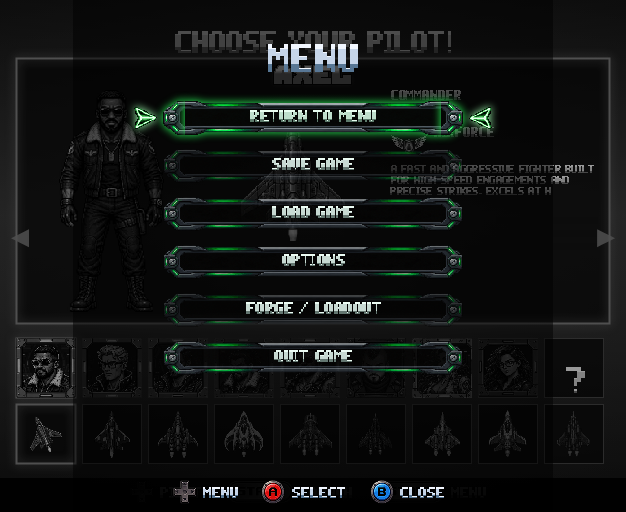
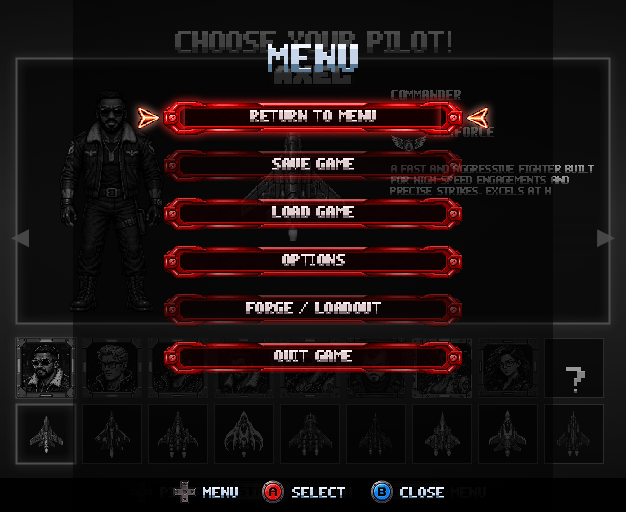
START menu: palette-swap the buttons to red
Claude-Session: https://claude.ai/code/session_01P7yYK6UMts2rdmsENLHLx8

Changed region(s): [[0.1821, 0.1875, 0.7891, 0.75], [0.0304, 0.8125, 0.1214, 0.875]]

diff --git a/assets/start_menu_1022.js b/assets/start_menu_1022.js
@@ -192,13 +192,28 @@ function sm22Field(){
   const W=cv?cv.width:VW*SS, H=cv?cv.height:VH*SS, k=Math.min(W/VW,H/VH);
   return {W,H,k,ox:(W-VW*k)/2,oy:(H-VH*k)/2};
 }
+/* Mike: "palette swap the buttons to red". The pause plate through xartPalette ('color' composite: the plate's own
+   luminance, so its bevels and rivets survive) and the same 3-slice as playPauseButtonArt. The in-game pause keeps
+   its green plate. */
+const SM22_RED='#ff2a2a';
+function sm22ButtonArt(cx,cy,w,h,selected){
+  const im=(typeof xartPalette==='function')?xartPalette('pause_button_0915',SM22_RED):null;
+  if(!im) return false;
+  const r=PAUSE_BUTTON_RECT, cap=Math.min(r[3]*.65,r[2]/3), dc=Math.min(h*.65,w/3);
+  ctx.save(); ctx.globalAlpha*=selected?1:.72;
+  if(selected){ ctx.shadowColor=SM22_RED; ctx.shadowBlur=9; }
+  ctx.drawImage(im,r[0],r[1],cap,r[3],cx-w/2,cy-h/2,dc,h);
+  ctx.drawImage(im,r[0]+cap,r[1],r[2]-cap*2,r[3],cx-w/2+dc,cy-h/2,w-dc*2,h);
+  ctx.drawImage(im,r[0]+r[2]-cap,r[1],cap,r[3],cx+w/2-dc,cy-h/2,dc,h);
+  ctx.restore(); return true;
+}
 function sm22DrawRoot(dt){
   const P=SM22, m=Input.mouse||{};
   if(P.t>.25){
     let ch=0; if(Input.menuDown()) ch=1; if(Input.menuUp()) ch=-1;
     if(ch){ P.sel=(P.sel+ch+SM22_ROWS.length)%SM22_ROWS.length; try{ Audio.SFX.blip&&Audio.SFX.blip(); }catch(_b){} }
   }
-  msgText('MENU',VW/2,58,28,'#2aff5a',0,1,.12);
+  msgText('MENU',VW/2,58,28,SM22_RED,0,1,.12);
   const w=Math.min(300,VW-96),h=34,gap=48,y0=118;
   let clicked=-1;
   for(let i=0;i<SM22_ROWS.length;i++){
@@ -206,12 +221,12 @@ function sm22DrawRoot(dt){
     if(i>=P.shown){ P.shown=i+1; try{ Audio.SFX.blip&&Audio.SFX.blip(); }catch(_b){} }
     const y=y0+i*gap-(1-k)*(1-k)*VH*.75, sel=i===P.sel, off=!!sm22Why(i);
     ctx.save(); ctx.globalAlpha=k*(off?.5:1);
-    if(!(typeof playPauseButtonArt==='function' && playPauseButtonArt(VW/2,y,w,h,sel))){
-      octFill(VW/2-w/2,y-h/2,w,h,7,sel?'#133623':'#141b19');
-      ctx.strokeStyle=sel?'#2aff5a':'#3c5550'; ctx.lineWidth=sel?2:1; ctx.strokeRect(VW/2-w/2+4,y-h/2+3,w-8,h-6);
+    if(!sm22ButtonArt(VW/2,y,w,h,sel)){
+      octFill(VW/2-w/2,y-h/2,w,h,7,sel?'#3a1313':'#1b1414');
+      ctx.strokeStyle=sel?SM22_RED:'#553c3c'; ctx.lineWidth=sel?2:1; ctx.strokeRect(VW/2-w/2+4,y-h/2+3,w-8,h-6);
     }
-    campText(SM22_ROWS[i],VW/2,y+(typeof PAUSE_LABEL_DY==='number'?PAUSE_LABEL_DY:-2),12,sel?'#dfffe9':'#a0b2a8');
-    if(sel && typeof menuSelMark==='function') menuSelMark(VW/2,y,w/2,'green');
+    campText(SM22_ROWS[i],VW/2,y+(typeof PAUSE_LABEL_DY==='number'?PAUSE_LABEL_DY:-2),12,sel?'#ffe4e4':'#b8a2a2');
+    if(sel && typeof menuSelMark==='function') menuSelMark(VW/2,y,w/2,'red');
     ctx.restore();
     const mx=sm22MouseX(), my=sm22MouseY();
     if(k===1 && m.inside && Math.abs(mx-VW/2)<=w/2 && Math.abs(my-y)<h/2){
@@ -222,7 +237,7 @@ function sm22DrawRoot(dt){
   P.md=!!m.down;
   const why=sm22Why(P.sel);
   if(P.msgT>0) campText(P.msg,VW/2,VH-50,10,'#ff7474');
-  else if(why) campText(why,VW/2,VH-50,10,'#8fa79a');
+  else if(why) campText(why,VW/2,VH-50,10,'#b89a9a');
   if(Input.menuBack() || sm22StartTap()){ try{ Audio.SFX.blip&&Audio.SFX.blip(); }catch(_b){} sm22Close(); return; }
   if(clicked>=0){ P.sel=clicked; sm22Choose(clicked); return; }
   if(P.t>.85 && Input.menuConfirm()) sm22Choose(P.sel);
@@ -235,7 +250,7 @@ function sm22DrawSlots(dt){
   const P=SM22.slot; if(!P) return;
   P.t+=dt; P.msgT=Math.max(0,(P.msgT||0)-dt);
   const count=CAMP_SLOTS+(P.mode==='load'?1:0), per=4, page=Math.floor(P.sel/per), start=page*per, n=Math.min(per,count-start);
-  msgText(P.mode==='save'?'SAVE GAME':'LOAD GAME',VW/2,40,22,'#2aff5a',0,1,.12);
+  msgText(P.mode==='save'?'SAVE GAME':'LOAD GAME',VW/2,40,22,SM22_RED,0,1,.12);
   campText('PAGE '+(page+1)+' / '+Math.ceil(count/per)+'   LEFT / RIGHT',VW/2,66,9,'#8fbad2');
   const rw=390, rh=82, gap=6, x=(VW-rw)/2, y0=80;
   for(let i=0;i<n;i++){
@@ -243,7 +258,7 @@ function sm22DrawSlots(dt){
     /* the load list puts the AUTO SAVE first, the way the map's own load page does */
     const slot=P.mode==='load'?(idx===0?CAMP_SLOTS:idx-1):idx;
     if(typeof map4hSlotDraw==='function') map4hSlotDraw(slot,r,idx===P.sel,P.mode);
-    else { ctx.fillStyle=idx===P.sel?'#1b3a28':'#12181a'; ctx.fillRect(r.x,r.y,r.w,r.h); campText((slot===CAMP_SLOTS?'AUTO':'SLOT '+(slot+1)),VW/2,r.y+r.h/2,12,'#dfffe9'); }
+    else { ctx.fillStyle=idx===P.sel?'#3a1b1b':'#1a1212'; ctx.fillRect(r.x,r.y,r.w,r.h); campText((slot===CAMP_SLOTS?'AUTO':'SLOT '+(slot+1)),VW/2,r.y+r.h/2,12,'#ffe4e4'); }
   }
   if(P.msgT>0) campText(P.msg,VW/2,VH-50,10,'#ffe082');
   if(Input.menuLeft()){ P.sel=Math.max(0,P.sel-per); try{ Audio.SFX.blip(); }catch(_b){} }

diff --git a/docs/START_MENU_1022.md b/docs/START_MENU_1022.md
@@ -53,3 +53,10 @@ The in-game pause during play is unchanged.
 `_BUILD_SOURCE/probe_start_menu_1022.py` (real Chromium, real key/pad presses): **31/0, 0 page or console errors**,
 with a busted arm (`SM22_OFF=1` lets B leave pilot select again). `probe_menu_confirm_0918f.py` 9/0 after its back
 check moved from difficulty to credits. Proof frames: `docs/proofs/start_menu_1022/`.
+
+## Red buttons (2026-10-22, later)
+
+Mike: *"palette swap the buttons to red"*. `sm22ButtonArt` draws the pause plate through `xartPalette('pause_button_0915',
+'#ff2a2a')` - a `'color'` composite, so the plate keeps its own luminance, bevels and rivets - with the same 3-slice as
+`playPauseButtonArt`, a red glow on the selected row and the red selection arrows (`menuSelMark(...,'red')`). The
+fallback fill, labels and slot list follow. The in-game pause during play keeps its green plate. Probe still 31/0.
